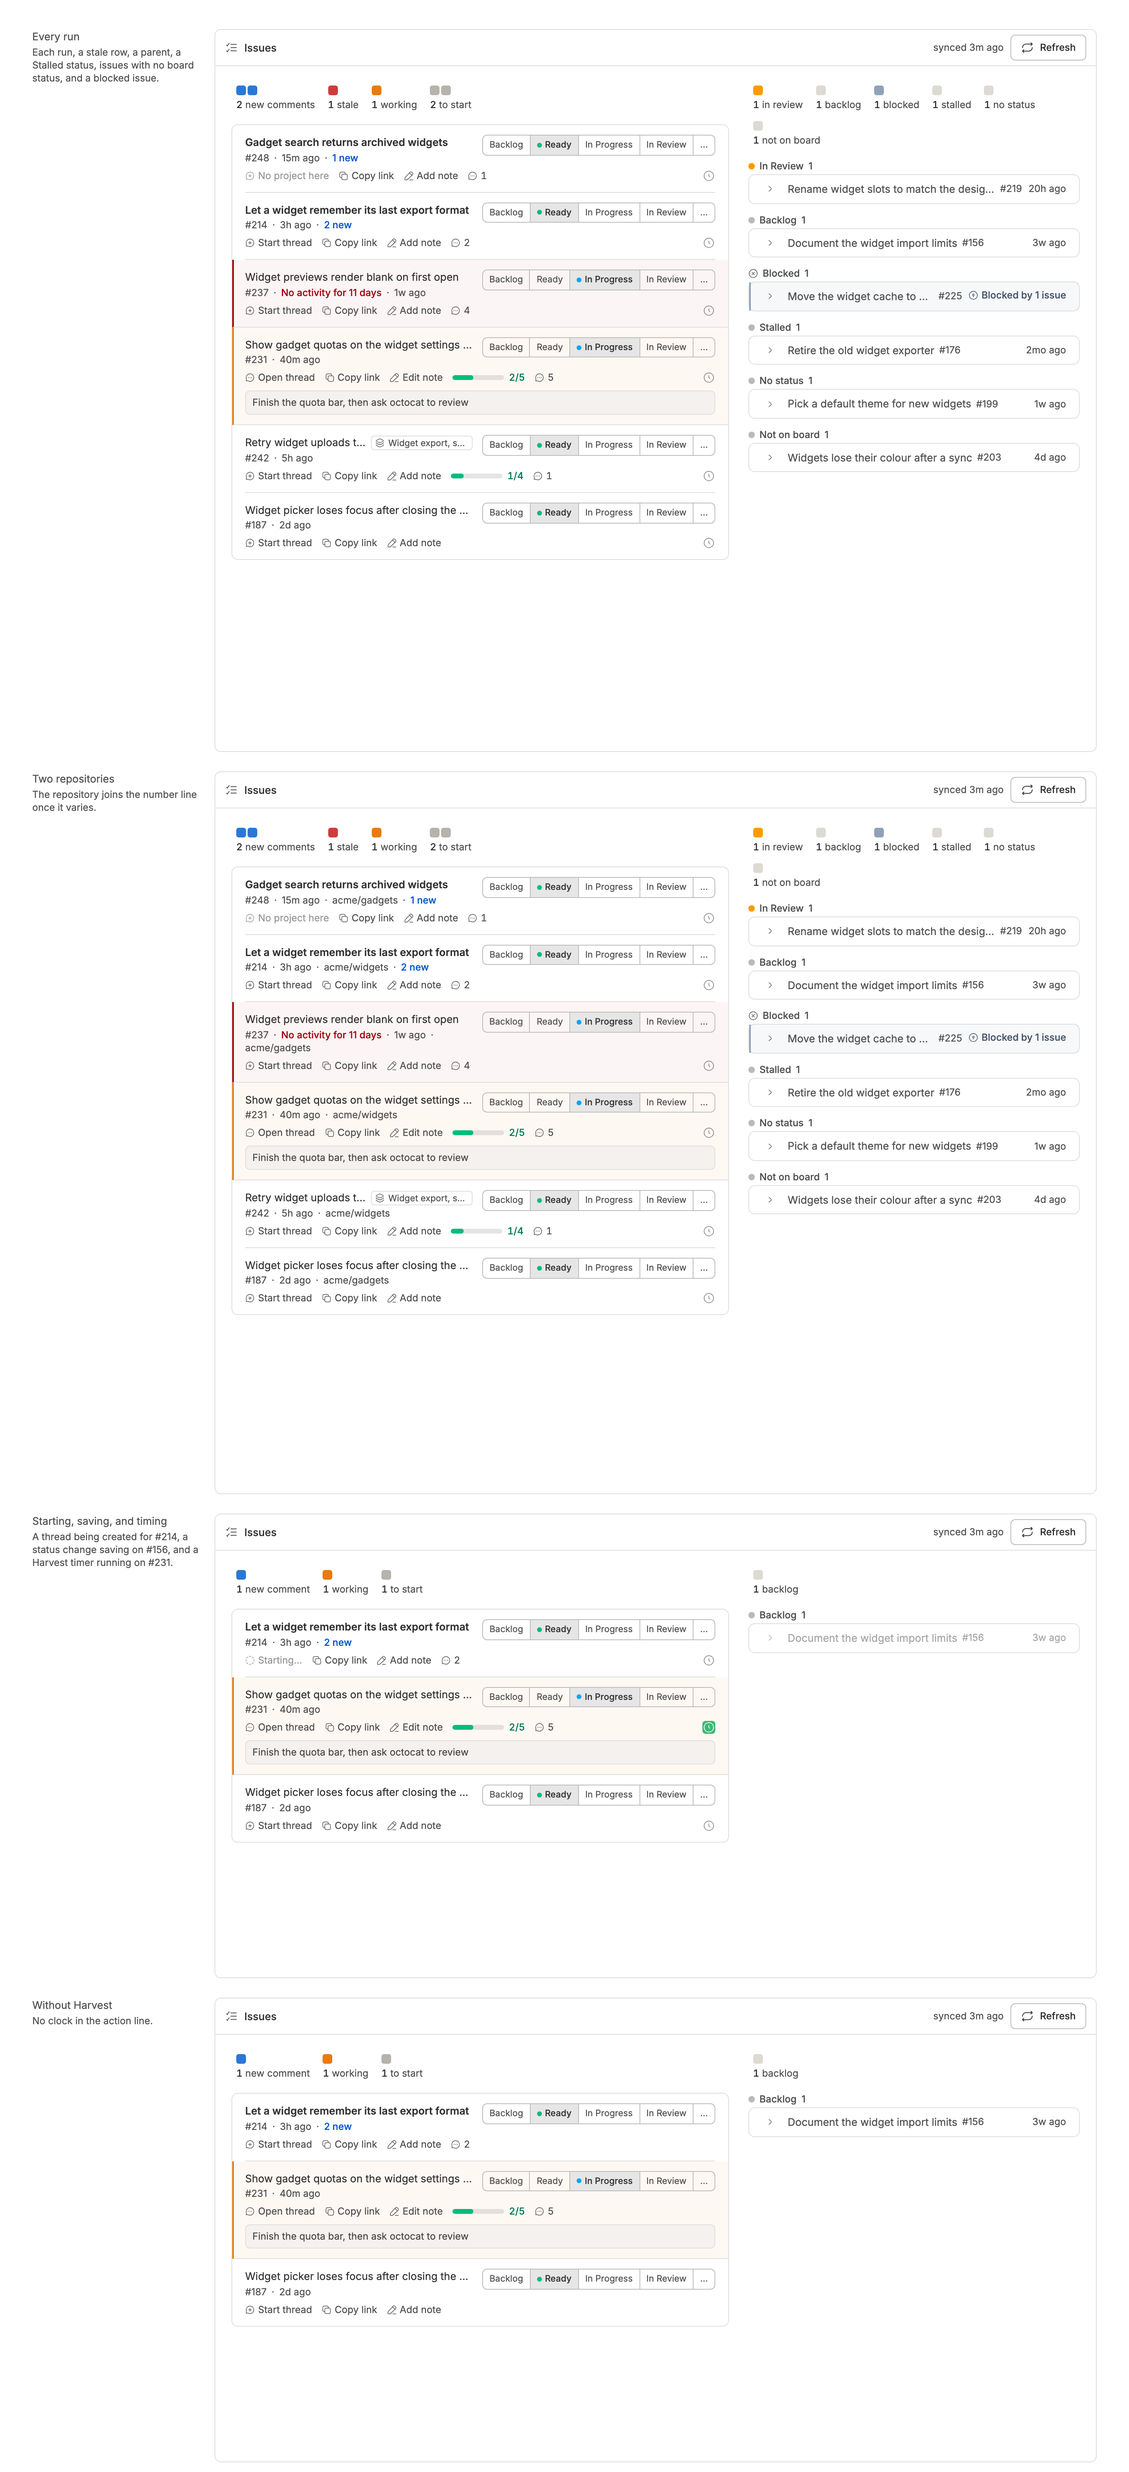
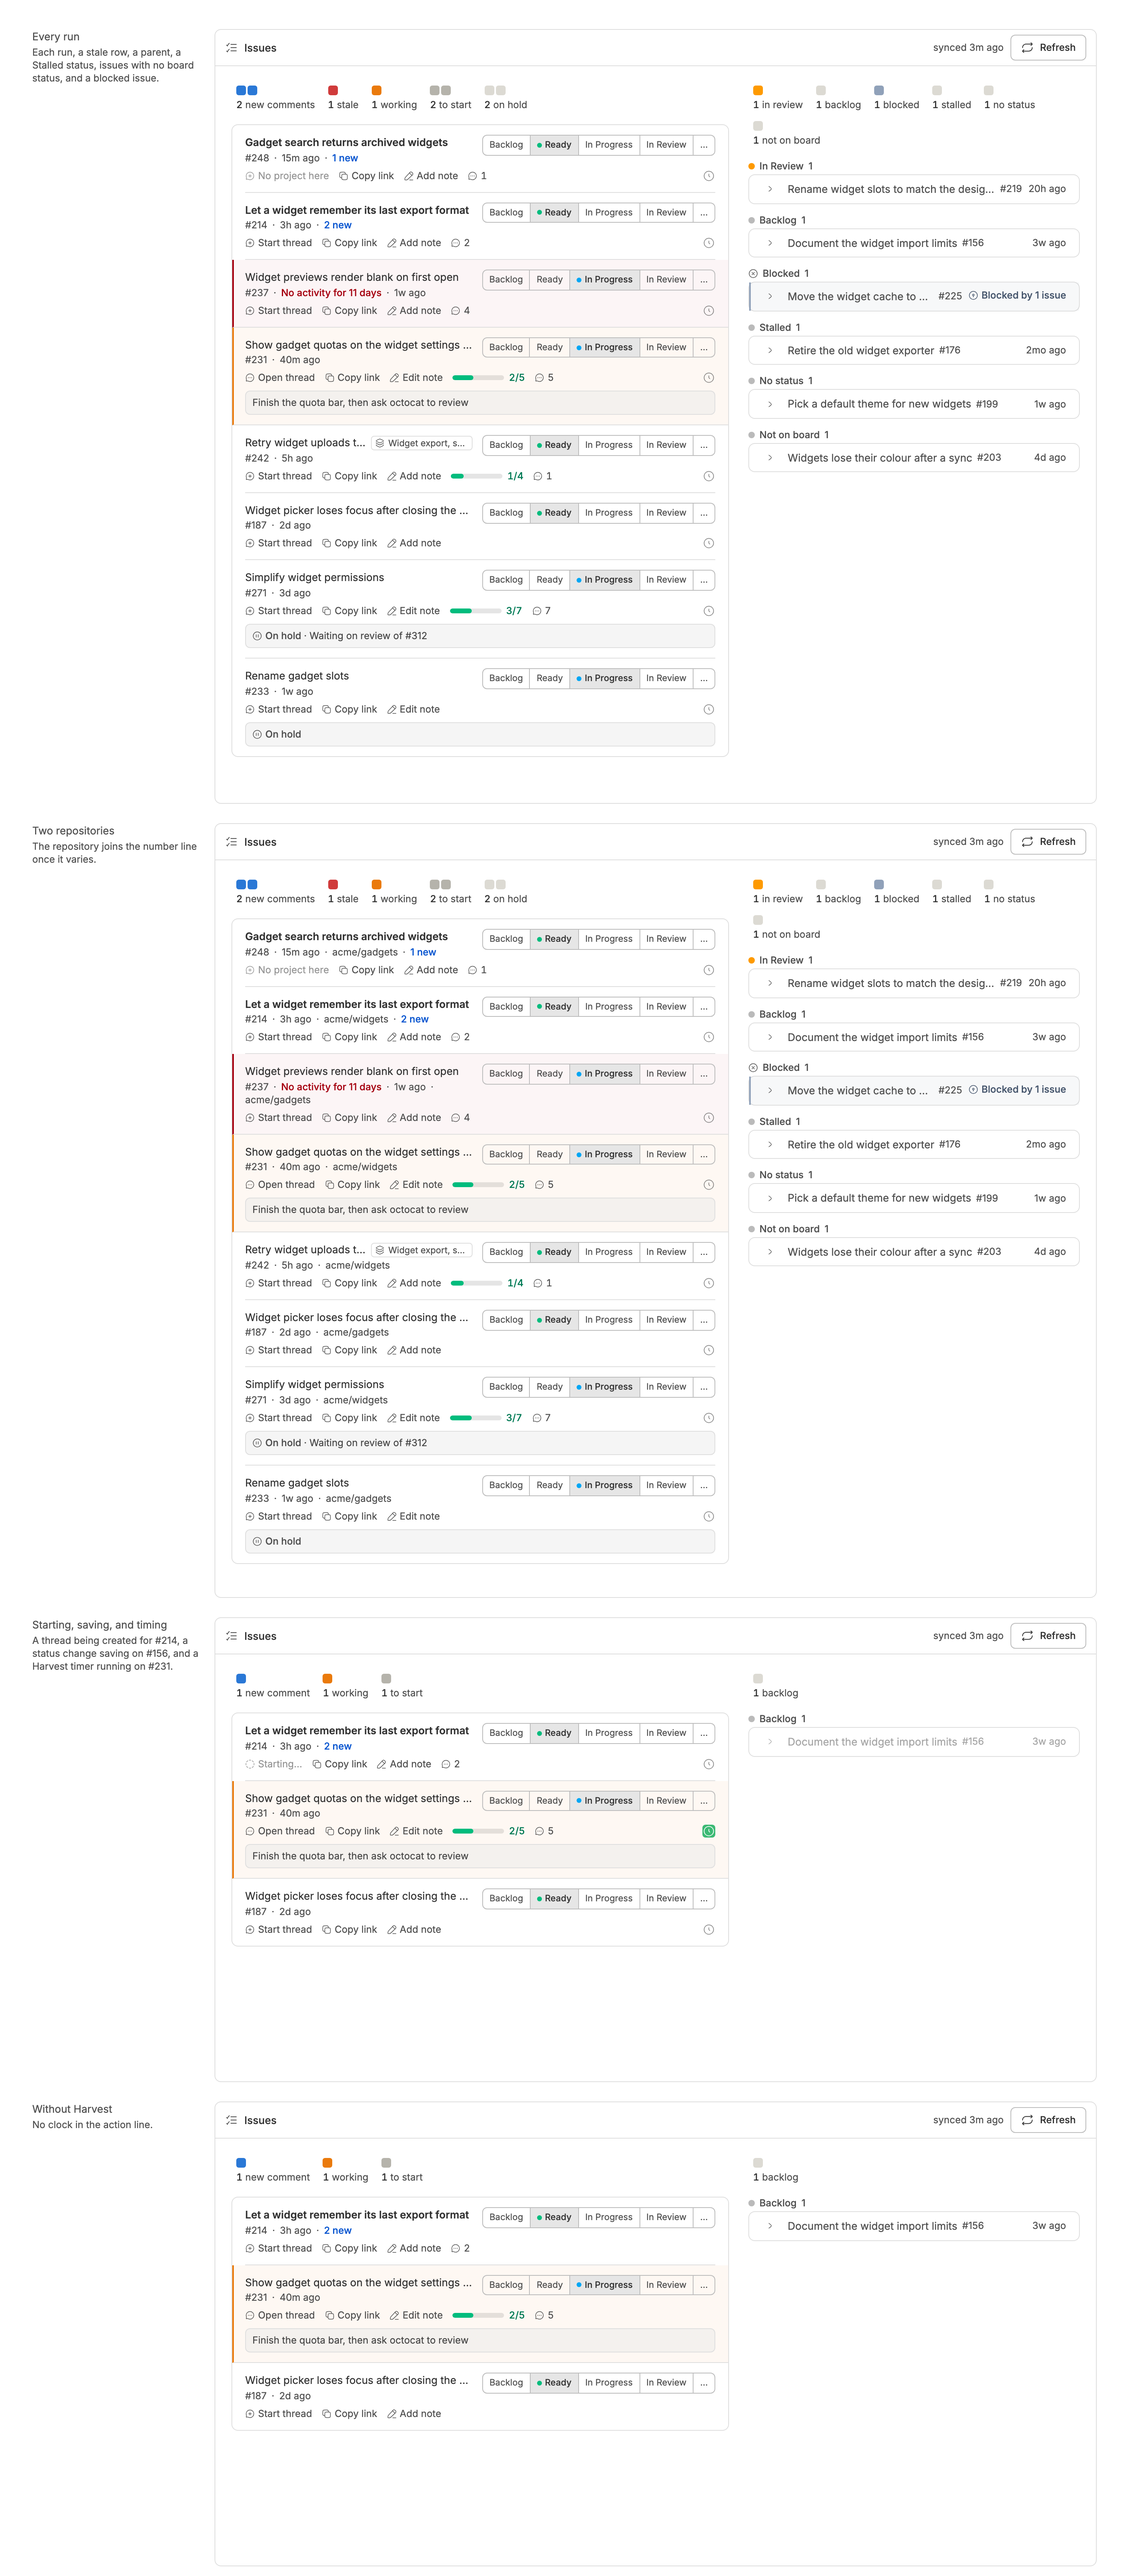
dada35e Make room for the held rows in Issue Sweep's Rows story
danielbachhuber/bb-plugins@dada35e371e296b82392641043231c8953cf8c1d

Captured with uncommitted changes in the bb-plugins checkout.

diff --git a/README.md b/README.md
@@ -16,7 +16,7 @@ small history while the visual history is still available.
 | [Diff Viewed](diff-viewed/README.md) | Adds a Viewed checkbox to each file in the changes panel, so a reviewed file collapses, dims, and stays that way until its diff changes, with a count of files viewed so far, an Only unviewed filter that hides reviewed files, and two-way sync with GitHub's Viewed boxes on the thread's pull request, which marks a file viewed on GitHub once you push the diff you marked in bb. | 4 stories |
 | [Dynamic UI](dynamic-ui/README.md) | Lets a skill show its results as a list above the thread's composer, each item opening in the side panel with its details and buttons: send a reply to the thread, open a new thread, run a confirmed command, or open a link. | 54 stories |
 | [GitHub Context](gh-context/README.md) | A banner above the composer showing the thread's pull request and its reviewers, the GitHub issues it works on, its changes, and a Harvest timer, in place of bb's own. | 5 stories |
-| [Issue Sweep](issue-sweep/README.md) | Open GitHub issues assigned to you, split into what needs you and everything else grouped by board status, with local notes, new comment counts, and the comments a click away. | 6 stories |
+| [Issue Sweep](issue-sweep/README.md) | Open GitHub issues assigned to you, split into what needs you and everything else grouped by board status, with local notes, an On hold box that sinks an issue to the bottom, new comment counts, and the comments a click away. | 6 stories |
 | [Now](now/README.md) | One list of what needs doing now, from Todoist and your Gmail inbox, with GitHub notifications gathered per pull request or issue, showing each pull request's reviewers, and Google Docs comments per document. | 12 stories |
 | [Plugin Shelf](plugin-shelf/README.md) | Lists the plugins in your bb-plugins checkout as published and current, published with commits not yet released (with those commits), or personal, with each published plugin's install count, on a My plugins page in bb's Plugins screen, with a button on each to start a thread on it and one to publish an update where one is due. | 4 stories |
 | [PR Sweep](pr-sweep/README.md) | Open pull requests you authored in one list, newest first with the overdue and in-progress ones pinned on top, with local notes, new comment counts, review comments a click away, a Dismiss for failing checks you cannot fix, and where a stacked pull request sits in its stack. | 5 stories |

diff --git a/issue-sweep/README.md b/issue-sweep/README.md
@@ -2,7 +2,7 @@
 
 # Issue Sweep
 
-Open GitHub issues assigned to you, split into what needs you and everything else grouped by board status, with local notes, new comment counts, and the comments a click away. Needs gh-context.
+Open GitHub issues assigned to you, split into what needs you and everything else grouped by board status, with local notes, an On hold box that sinks an issue to the bottom, new comment counts, and the comments a click away. Needs gh-context.
 
 Source: [`bb-plugin-issue-sweep`](https://github.com/danielbachhuber/bb-plugins/tree/main/bb-plugin-issue-sweep)
 
@@ -16,7 +16,7 @@ Four issues assigned to you. The one with new comments, the one with a thread, a
 
 ### Rows
 
-Every run the list can draw: new comments, stale, working, and to start under Needs you; waiting on review, later, and blocked grouped by status beside them. Rows show a parent chip, sub-issue and task counts, a status the stages do not name, issues off the board, and "No project here" where nothing is checked out. Then the same list across two repositories, a thread being started with a timer running, and the panel without Harvest.
+Every run the list can draw: new comments, stale, working, and to start under Needs you, then two issues on hold at its bottom, one with a note and one without; waiting on review, later, and blocked grouped by status beside them. Rows show a parent chip, sub-issue and task counts, a status the stages do not name, issues off the board, and "No project here" where nothing is checked out. Then the same list across two repositories, a thread being started with a timer running, and the panel without Harvest.
 
 ![Rows](issue-list--rows.png)
 
